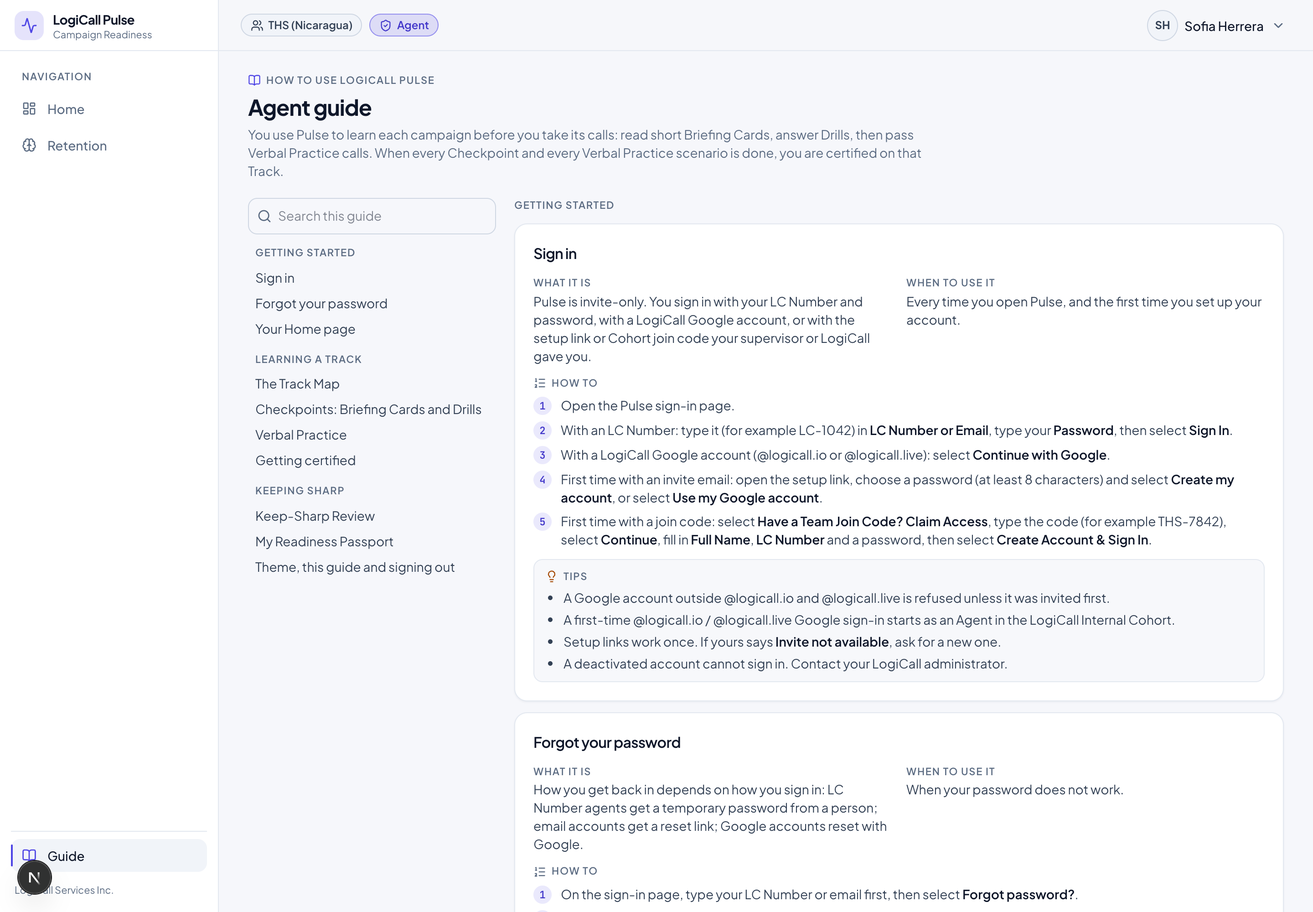
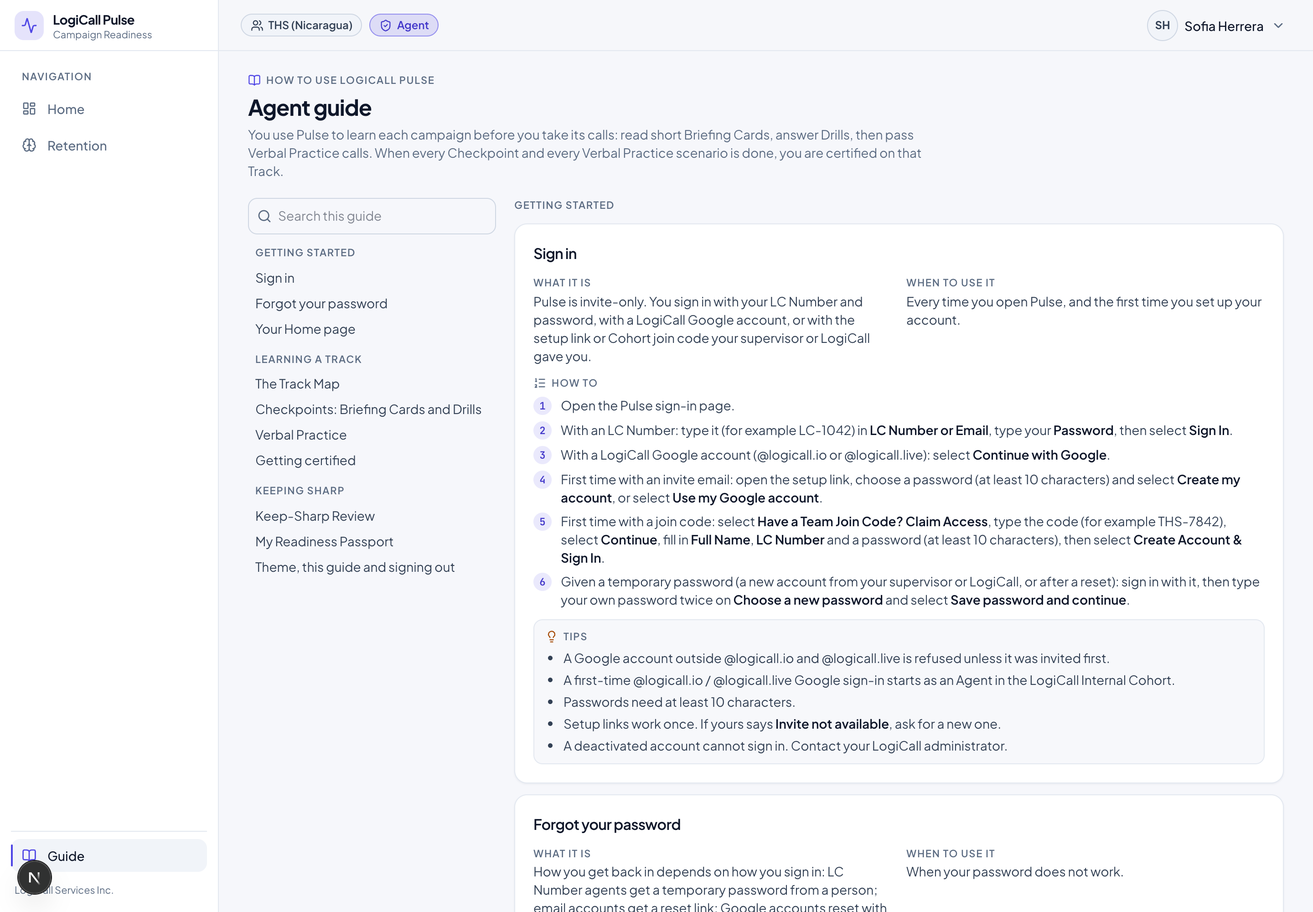
Guides: match PR #21 (10-char passwords, forced change after import, Revoke)
- Sign-in: passwords need 10 characters; temporary passwords (import or reset)
  lead to Choose a new password.
- Bulk Import: imported people must choose a new password at first sign-in.
- New Revoke a certification section (Trainer, Admin): Passport > Campaign
  Certifications > Revoke > Reason > Revoke certification; it does not come back
  by itself. Agents and supervisors are told how Revoked shows for them.
- Keep-Sharp: reviews do not count toward certification.
- Test: Revoke labels must exist in the UI; every password minimum in the guides
  matches PASSWORD_MIN_LENGTH. Docs and screenshots regenerated.

Changed region(s): [[0.4062, 0.589, 0.9375, 1.0], [0.9062, 0.527, 0.9375, 0.558]]

diff --git a/src/lib/guides/staff-sections.ts b/src/lib/guides/staff-sections.ts
@@ -123,6 +123,7 @@ export const teamProgressSection = (audience: 'supervisor' | 'staff'): GuideSect
   tips: [
     '"Ready for calls" on this board means certified on the selected Track. On Home it means certified on every assigned Track.',
     'Ready = every Checkpoint done and every Verbal Practice scenario passed. Keep-Sharp reviews do not count toward it.',
+    'A revoked certification moves the agent to the **Needs recert** box with "Revoked:" and the reason.',
     'Certification shows training is done; the decision to put someone on live calls is still yours.',
     audience === 'supervisor'
       ? 'Agents are listed under their home Cohort only. Someone from another team who is "also in" your Cohort shows on their own team\'s board, not yours.'
@@ -168,9 +169,32 @@ export const passportSection = (audience: 'supervisor' | 'staff'): GuideSection 
     audience === 'supervisor'
       ? 'You can open Passports for agents in your own Cohort.'
       : 'Staff can open any agent\'s Passport.',
+    audience === 'supervisor'
+      ? 'A certification a Trainer withdrew shows as **Revoked**. Ask your Trainer about the reason and what happens next.'
+      : 'To withdraw a certification, use **Revoke** in **Campaign Certifications** (see "Revoke a certification").',
   ],
   requires: ['analytics.view'],
 });
+
+export const revokeCertificationSection: GuideSection = {
+  id: 'revoke-certification',
+  title: 'Revoke a certification',
+  what: 'Withdraws an agent\'s certification on one Track. They stop counting as certified or ready for calls on it; their training history stays, and your reason and name are recorded in the certification history.',
+  when: 'When an agent is certified but should not be: for example a compliance violation on a real call, or a policy change that their certification predates.',
+  steps: [
+    'Open the agent\'s Readiness Passport (select their name on **Team Progress** or **Analytics**).',
+    'In **Campaign Certifications**, find the Track and select **Revoke**.',
+    'Type the **Reason**. It is required and kept in the certification history.',
+    'Select **Revoke certification**.',
+  ],
+  tips: [
+    'A revoked certification does not come back by itself, even if the agent meets every requirement again. There is no reinstate button yet.',
+    'The agent sees **Revoked** and your reason on the Track Map. Supervisors see "Revoked:" and the reason on Team Progress.',
+    'Their Track goes back to in progress, so their Home card shows **Continue** instead of **Certified**.',
+  ],
+  links: [{ label: 'Open Team Progress', href: '/progress' }],
+  requires: ['certifications.manage'],
+};
 
 export const manualScoringSection: GuideSection = {
   id: 'score-by-hand',
@@ -254,7 +278,7 @@ export const bulkImportSection: GuideSection = {
     'Pulse does not keep a copy of the temporary passwords. If you lose the file, reset the passwords one by one.',
     'Blank role = Agent. Blank divisionIds = the Cohort\'s default Divisions. Separate several Divisions with |.',
     'Up to 500 rows per import. Excel files must be saved as CSV first.',
-    'Imported accounts are not forced to change their password. Ask agents to keep it private.',
+    'Everyone imported must choose their own password (at least 10 characters) the first time they sign in, the same as after a reset. An initialPassword you set must also be at least 10 characters.',
   ],
   links: [{ label: 'Open Roster', href: '/roster' }],
   requires: ['users.invite'],

diff --git a/src/lib/guides/shared.ts b/src/lib/guides/shared.ts
@@ -17,19 +17,22 @@ export const signInSection = (audience: 'agent' | 'staff'): GuideSection => ({
           'Open the Pulse sign-in page.',
           'With an LC Number: type it (for example LC-1042) in **LC Number or Email**, type your **Password**, then select **Sign In**.',
           'With a LogiCall Google account (@logicall.io or @logicall.live): select **Continue with Google**.',
-          'First time with an invite email: open the setup link, choose a password (at least 8 characters) and select **Create my account**, or select **Use my Google account**.',
-          'First time with a join code: select **Have a Team Join Code? Claim Access**, type the code (for example THS-7842), select **Continue**, fill in **Full Name**, **LC Number** and a password, then select **Create Account & Sign In**.',
+          'First time with an invite email: open the setup link, choose a password (at least 10 characters) and select **Create my account**, or select **Use my Google account**.',
+          'First time with a join code: select **Have a Team Join Code? Claim Access**, type the code (for example THS-7842), select **Continue**, fill in **Full Name**, **LC Number** and a password (at least 10 characters), then select **Create Account & Sign In**.',
+          'Given a temporary password (a new account from your supervisor or LogiCall, or after a reset): sign in with it, then type your own password twice on **Choose a new password** and select **Save password and continue**.',
         ]
       : [
           'LogiCall staff: select **Continue with Google** and pick your @logicall.io or @logicall.live account.',
-          'Invited by email: open the one-time setup link from the invite email, choose a password (at least 8 characters) and select **Create my account**, or select **Use my Google account** for that same address.',
+          'Invited by email: open the one-time setup link from the invite email, choose a password (at least 10 characters) and select **Create my account**, or select **Use my Google account** for that same address.',
           'Accounts with a password: type your LC Number or email in **LC Number or Email**, your **Password**, then select **Sign In**.',
+          'Signed in with a temporary password (from Bulk Import or a reset)? Pulse opens **Choose a new password** first. Pick one with at least 10 characters.',
         ],
   tips: [
     'A Google account outside @logicall.io and @logicall.live is refused unless it was invited first.',
     audience === 'agent'
       ? 'A first-time @logicall.io / @logicall.live Google sign-in starts as an Agent in the LogiCall Internal Cohort.'
       : 'A first-time @logicall.io / @logicall.live Google sign-in with no invite starts as an Agent in the LogiCall Internal Cohort. To make them staff, change their role with **Access** on the Roster, or invite them before they sign in.',
+    'Passwords need at least 10 characters.',
     'Setup links work once. If yours says **Invite not available**, ask for a new one.',
     'A deactivated account cannot sign in. Contact your LogiCall administrator.',
   ],

diff --git a/tests/unit/role-guides.test.ts b/tests/unit/role-guides.test.ts
@@ -4,6 +4,7 @@ import { createElement } from 'react';
 import { renderToStaticMarkup } from 'react-dom/server';
 import { describe, expect, it } from 'vitest';
 import { ALL_ROLES, can } from '@/lib/auth/rbac';
+import { PASSWORD_MIN_LENGTH } from '@/lib/schemas/constants';
 import type { UserRole } from '@/lib/schemas/domain';
 import { GUIDES } from '@/lib/guides';
 import { guideRoleFor, resolveGuideRole, visibleGuideRoles } from '@/lib/guides/access';
@@ -166,21 +167,29 @@ describe('role guides', () => {
     }
   });
 
-  it('teaches multi-Cohort assignment with the labels the app really shows', () => {
+  it('teaches multi-Cohort assignment and revoking with the labels the app really shows', () => {
     const read = (rel: string) => readFileSync(path.join(ROOT, 'src', rel), 'utf8');
     const ui = {
       'Also in these Cohorts': read('app/(dashboard)/roster/_components/EditUserPermissionsDialog.tsx'),
       'Save trainings': read('app/(dashboard)/roster/_components/CohortTrainingsDialog.tsx'),
       'Specific people': read('components/studio/PublishDialog.tsx'),
       'Save assignment only': read('components/studio/PublishDialog.tsx'),
+      Revoke: read('components/analytics/RevokeCertificationButton.tsx'),
+      'Revoke certification': read('components/analytics/RevokeCertificationButton.tsx'),
     };
     for (const role of ['TRAINER', 'ADMIN'] as const) {
       const text = guideToMarkdown(GUIDES[role]);
       expect(text).toContain('### Assign trainings to Cohorts or people');
+      expect(text).toContain('### Revoke a certification');
       for (const [label, source] of Object.entries(ui)) {
         expect(source, `UI still shows "${label}"`).toContain(label);
         expect(text, `${role} guide mentions "${label}"`).toContain(`**${label}**`);
       }
+    }
+    // Password minimum matches the app everywhere a guide mentions one.
+    for (const role of GUIDE_ROLES) {
+      const text = guideToMarkdown(GUIDES[role]);
+      for (const match of text.matchAll(/at least (\d+) characters/g)) expect(Number(match[1])).toBe(PASSWORD_MIN_LENGTH);
     }
     // Every guide states the any-Cohort-or-by-name rule; no section is left flagged for a later update.
     expect(guideToMarkdown(GUIDES.AGENT)).toContain('one of your Cohorts or to you by name');

diff --git a/src/lib/guides/agent.ts b/src/lib/guides/agent.ts
@@ -107,6 +107,7 @@ export const AGENT_GUIDE: RoleGuide = {
           tips: [
             'Keep-Sharp reviews keep rules fresh but do not affect certification.',
             '**Recertify** means the Track changed in a way that needs a new pass. Your old certification stays in your history.',
+            '**Revoked** means a Trainer withdrew your certification on that Track. The reason shows in **Path to certification**. It does not come back by itself, even if you redo the Track, so talk to your supervisor.',
             'Certification shows training is done. Your supervisor decides when you take live calls.',
           ],
         },
@@ -130,6 +131,7 @@ export const AGENT_GUIDE: RoleGuide = {
             'Nothing due? **Practice Upcoming Drills** lets you review early.',
             'A wrong answer comes back in about 4 hours.',
             'No reviews yet means you have not finished a Checkpoint. Reviews start after your first one.',
+            'Reviews keep rules fresh. They do not count toward certification, and skipping them never removes it.',
           ],
           links: [{ label: 'Open Keep-Sharp Review', href: '/learn/review' }],
         },

diff --git a/src/lib/guides/trainer.ts b/src/lib/guides/trainer.ts
@@ -10,6 +10,7 @@ import {
   editTrackSection,
   inviteSection,
   manualScoringSection,
+  revokeCertificationSection,
   passportSection,
   resetPasswordSection,
   revisedPlaybookSection,
@@ -37,7 +38,13 @@ export const BUILDING_CHAPTER: GuideChapter = {
 export const TEAM_CHAPTER: GuideChapter = {
   id: 'team-insight',
   title: 'Progress and coaching',
-  sections: [teamProgressSection('staff'), manualScoringSection, analyticsSection('staff'), passportSection('staff')],
+  sections: [
+    teamProgressSection('staff'),
+    manualScoringSection,
+    analyticsSection('staff'),
+    passportSection('staff'),
+    revokeCertificationSection,
+  ],
 };
 
 /** Pointers to the guides of the roles a staff member manages. */

diff --git a/docs/guides/admin-guide.md b/docs/guides/admin-guide.md
@@ -34,6 +34,7 @@ You can do everything a Trainer does, and you also run Cohorts, join codes and T
   - [Score a practice call by hand](#score-by-hand)
   - [Analytics](#analytics)
   - [An agent's Readiness Passport](#readiness-passport)
+  - [Revoke a certification](#revoke-certification)
 - More
   - [What Trainers see](#trainer-experience)
   - [What supervisors see](#supervisor-experience)
@@ -54,13 +55,15 @@ You can do everything a Trainer does, and you also run Cohorts, join codes and T
 **How to:**
 
 1. LogiCall staff: select **Continue with Google** and pick your @logicall.io or @logicall.live account.
-2. Invited by email: open the one-time setup link from the invite email, choose a password (at least 8 characters) and select **Create my account**, or select **Use my Google account** for that same address.
+2. Invited by email: open the one-time setup link from the invite email, choose a password (at least 10 characters) and select **Create my account**, or select **Use my Google account** for that same address.
 3. Accounts with a password: type your LC Number or email in **LC Number or Email**, your **Password**, then select **Sign In**.
+4. Signed in with a temporary password (from Bulk Import or a reset)? Pulse opens **Choose a new password** first. Pick one with at least 10 characters.
 
 **Tips:**
 
 - A Google account outside @logicall.io and @logicall.live is refused unless it was invited first.
 - A first-time @logicall.io / @logicall.live Google sign-in with no invite starts as an Agent in the LogiCall Internal Cohort. To make them staff, change their role with **Access** on the Roster, or invite them before they sign in.
+- Passwords need at least 10 characters.
 - Setup links work once. If yours says **Invite not available**, ask for a new one.
 - A deactivated account cannot sign in. Contact your LogiCall administrator.
 
@@ -217,7 +220,7 @@ You can do everything a Trainer does, and you also run Cohorts, join codes and T
 - Pulse does not keep a copy of the temporary passwords. If you lose the file, reset the passwords one by one.
 - Blank role = Agent. Blank divisionIds = the Cohort's default Divisions. Separate several Divisions with |.
 - Up to 500 rows per import. Excel files must be saved as CSV first.
-- Imported accounts are not forced to change their password. Ask agents to keep it private.
+- Everyone imported must choose their own password (at least 10 characters) the first time they sign in, the same as after a reset. An initialPassword you set must also be at least 10 characters.
 
 **Open in Pulse:** **Open Roster** (`/roster`)
 
@@ -512,6 +515,7 @@ You can do everything a Trainer does, and you also run Cohorts, join codes and T
 
 - "Ready for calls" on this board means certified on the selected Track. On Home it means certified on every assigned Track.
 - Ready = every Checkpoint done and every Verbal Practice scenario passed. Keep-Sharp reviews do not count toward it.
+- A revoked certification moves the agent to the **Needs recert** box with "Revoked:" and the reason.
 - Certification shows training is done; the decision to put someone on live calls is still yours.
 - Agents are grouped by their home Cohort. The **Cohort** filter shows each agent under their home Cohort only, even if they are also in other Cohorts.
 
@@ -575,6 +579,30 @@ You can do everything a Trainer does, and you also run Cohorts, join codes and T
 **Tips:**
 
 - Staff can open any agent's Passport.
+- To withdraw a certification, use **Revoke** in **Campaign Certifications** (see "Revoke a certification").
+
+<a id="revoke-certification"></a>
+
+### Revoke a certification
+
+**What it is.** Withdraws an agent's certification on one Track. They stop counting as certified or ready for calls on it; their training history stays, and your reason and name are recorded in the certification history.
+
+**When to use it.** When an agent is certified but should not be: for example a compliance violation on a real call, or a policy change that their certification predates.
+
+**How to:**
+
+1. Open the agent's Readiness Passport (select their name on **Team Progress** or **Analytics**).
+2. In **Campaign Certifications**, find the Track and select **Revoke**.
+3. Type the **Reason**. It is required and kept in the certification history.
+4. Select **Revoke certification**.
+
+**Tips:**
+
+- A revoked certification does not come back by itself, even if the agent meets every requirement again. There is no reinstate button yet.
+- The agent sees **Revoked** and your reason on the Track Map. Supervisors see "Revoked:" and the reason on Team Progress.
+- Their Track goes back to in progress, so their Home card shows **Continue** instead of **Certified**.
+
+**Open in Pulse:** **Open Team Progress** (`/progress`)
 
 ## More
 

diff --git a/docs/guides/trainer-guide.md b/docs/guides/trainer-guide.md
@@ -23,6 +23,7 @@ You use Pulse to turn campaign Playbook PDFs into Tracks, publish them to Cohort
   - [Score a practice call by hand](#score-by-hand)
   - [Analytics](#analytics)
   - [An agent's Readiness Passport](#readiness-passport)
+  - [Revoke a certification](#revoke-certification)
 - People
   - [The Roster](#roster)
   - [Invite someone by email](#invite-staff)
@@ -51,13 +52,15 @@ You use Pulse to turn campaign Playbook PDFs into Tracks, publish them to Cohort
 **How to:**
 
 1. LogiCall staff: select **Continue with Google** and pick your @logicall.io or @logicall.live account.
-2. Invited by email: open the one-time setup link from the invite email, choose a password (at least 8 characters) and select **Create my account**, or select **Use my Google account** for that same address.
+2. Invited by email: open the one-time setup link from the invite email, choose a password (at least 10 characters) and select **Create my account**, or select **Use my Google account** for that same address.
 3. Accounts with a password: type your LC Number or email in **LC Number or Email**, your **Password**, then select **Sign In**.
+4. Signed in with a temporary password (from Bulk Import or a reset)? Pulse opens **Choose a new password** first. Pick one with at least 10 characters.
 
 **Tips:**
 
 - A Google account outside @logicall.io and @logicall.live is refused unless it was invited first.
 - A first-time @logicall.io / @logicall.live Google sign-in with no invite starts as an Agent in the LogiCall Internal Cohort. To make them staff, change their role with **Access** on the Roster, or invite them before they sign in.
+- Passwords need at least 10 characters.
 - Setup links work once. If yours says **Invite not available**, ask for a new one.
 - A deactivated account cannot sign in. Contact your LogiCall administrator.
 
@@ -280,6 +283,7 @@ You use Pulse to turn campaign Playbook PDFs into Tracks, publish them to Cohort
 
 - "Ready for calls" on this board means certified on the selected Track. On Home it means certified on every assigned Track.
 - Ready = every Checkpoint done and every Verbal Practice scenario passed. Keep-Sharp reviews do not count toward it.
+- A revoked certification moves the agent to the **Needs recert** box with "Revoked:" and the reason.
 - Certification shows training is done; the decision to put someone on live calls is still yours.
 - Agents are grouped by their home Cohort. The **Cohort** filter shows each agent under their home Cohort only, even if they are also in other Cohorts.
 
@@ -343,6 +347,30 @@ You use Pulse to turn campaign Playbook PDFs into Tracks, publish them to Cohort
 **Tips:**
 
 - Staff can open any agent's Passport.
+- To withdraw a certification, use **Revoke** in **Campaign Certifications** (see "Revoke a certification").
+
+<a id="revoke-certification"></a>
+
+### Revoke a certification
+
+**What it is.** Withdraws an agent's certification on one Track. They stop counting as certified or ready for calls on it; their training history stays, and your reason and name are recorded in the certification history.
+
+**When to use it.** When an agent is certified but should not be: for example a compliance violation on a real call, or a policy change that their certification predates.
+
+**How to:**
+
+1. Open the agent's Readiness Passport (select their name on **Team Progress** or **Analytics**).
+2. In **Campaign Certifications**, find the Track and select **Revoke**.
+3. Type the **Reason**. It is required and kept in the certification history.
+4. Select **Revoke certification**.
+
+**Tips:**
+
+- A revoked certification does not come back by itself, even if the agent meets every requirement again. There is no reinstate button yet.
+- The agent sees **Revoked** and your reason on the Track Map. Supervisors see "Revoked:" and the reason on Team Progress.
+- Their Track goes back to in progress, so their Home card shows **Continue** instead of **Certified**.
+
+**Open in Pulse:** **Open Team Progress** (`/progress`)
 
 ## People
 
@@ -415,7 +443,7 @@ You use Pulse to turn campaign Playbook PDFs into Tracks, publish them to Cohort
 - Pulse does not keep a copy of the temporary passwords. If you lose the file, reset the passwords one by one.
 - Blank role = Agent. Blank divisionIds = the Cohort's default Divisions. Separate several Divisions with |.
 - Up to 500 rows per import. Excel files must be saved as CSV first.
-- Imported accounts are not forced to change their password. Ask agents to keep it private.
+- Everyone imported must choose their own password (at least 10 characters) the first time they sign in, the same as after a reset. An initialPassword you set must also be at least 10 characters.
 
 **Open in Pulse:** **Open Roster** (`/roster`)
 

diff --git a/docs/guides/agent-guide.md b/docs/guides/agent-guide.md
@@ -35,13 +35,15 @@ You use Pulse to learn each campaign before you take its calls: read short Brief
 1. Open the Pulse sign-in page.
 2. With an LC Number: type it (for example LC-1042) in **LC Number or Email**, type your **Password**, then select **Sign In**.
 3. With a LogiCall Google account (@logicall.io or @logicall.live): select **Continue with Google**.
-4. First time with an invite email: open the setup link, choose a password (at least 8 characters) and select **Create my account**, or select **Use my Google account**.
-5. First time with a join code: select **Have a Team Join Code? Claim Access**, type the code (for example THS-7842), select **Continue**, fill in **Full Name**, **LC Number** and a password, then select **Create Account & Sign In**.
+4. First time with an invite email: open the setup link, choose a password (at least 10 characters) and select **Create my account**, or select **Use my Google account**.
+5. First time with a join code: select **Have a Team Join Code? Claim Access**, type the code (for example THS-7842), select **Continue**, fill in **Full Name**, **LC Number** and a password (at least 10 characters), then select **Create Account & Sign In**.
+6. Given a temporary password (a new account from your supervisor or LogiCall, or after a reset): sign in with it, then type your own password twice on **Choose a new password** and select **Save password and continue**.
 
 **Tips:**
 
 - A Google account outside @logicall.io and @logicall.live is refused unless it was invited first.
 - A first-time @logicall.io / @logicall.live Google sign-in starts as an Agent in the LogiCall Internal Cohort.
+- Passwords need at least 10 characters.
 - Setup links work once. If yours says **Invite not available**, ask for a new one.
 - A deactivated account cannot sign in. Contact your LogiCall administrator.
 
@@ -176,6 +178,7 @@ You use Pulse to learn each campaign before you take its calls: read short Brief
 
 - Keep-Sharp reviews keep rules fresh but do not affect certification.
 - **Recertify** means the Track changed in a way that needs a new pass. Your old certification stays in your history.
+- **Revoked** means a Trainer withdrew your certification on that Track. The reason shows in **Path to certification**. It does not come back by itself, even if you redo the Track, so talk to your supervisor.
 - Certification shows training is done. Your supervisor decides when you take live calls.
 
 ## Keeping sharp
@@ -199,6 +202,7 @@ You use Pulse to learn each campaign before you take its calls: read short Brief
 - Nothing due? **Practice Upcoming Drills** lets you review early.
 - A wrong answer comes back in about 4 hours.
 - No reviews yet means you have not finished a Checkpoint. Reviews start after your first one.
+- Reviews keep rules fresh. They do not count toward certification, and skipping them never removes it.
 
 **Open in Pulse:** **Open Keep-Sharp Review** (`/learn/review`)
 

diff --git a/docs/guides/supervisor-guide.md b/docs/guides/supervisor-guide.md
@@ -34,13 +34,15 @@ You use Pulse to see which agents in your Cohort are ready to take calls, coach 
 **How to:**
 
 1. LogiCall staff: select **Continue with Google** and pick your @logicall.io or @logicall.live account.
-2. Invited by email: open the one-time setup link from the invite email, choose a password (at least 8 characters) and select **Create my account**, or select **Use my Google account** for that same address.
+2. Invited by email: open the one-time setup link from the invite email, choose a password (at least 10 characters) and select **Create my account**, or select **Use my Google account** for that same address.
 3. Accounts with a password: type your LC Number or email in **LC Number or Email**, your **Password**, then select **Sign In**.
+4. Signed in with a temporary password (from Bulk Import or a reset)? Pulse opens **Choose a new password** first. Pick one with at least 10 characters.
 
 **Tips:**
 
 - A Google account outside @logicall.io and @logicall.live is refused unless it was invited first.
 - A first-time @logicall.io / @logicall.live Google sign-in with no invite starts as an Agent in the LogiCall Internal Cohort. To make them staff, change their role with **Access** on the Roster, or invite them before they sign in.
+- Passwords need at least 10 characters.
 - Setup links work once. If yours says **Invite not available**, ask for a new one.
 - A deactivated account cannot sign in. Contact your LogiCall administrator.
 
@@ -109,6 +111,7 @@ You use Pulse to see which agents in your Cohort are ready to take calls, coach 
 
 - "Ready for calls" on this board means certified on the selected Track. On Home it means certified on every assigned Track.
 - Ready = every Checkpoint done and every Verbal Practice scenario passed. Keep-Sharp reviews do not count toward it.
+- A revoked certification moves the agent to the **Needs recert** box with "Revoked:" and the reason.
 - Certification shows training is done; the decision to put someone on live calls is still yours.
 - Agents are listed under their home Cohort only. Someone from another team who is "also in" your Cohort shows on their own team's board, not yours.
 
@@ -152,6 +155,7 @@ You use Pulse to see which agents in your Cohort are ready to take calls, coach 
 **Tips:**
 
 - You can open Passports for agents in your own Cohort.
+- A certification a Trainer withdrew shows as **Revoked**. Ask your Trainer about the reason and what happens next.
 
 <a id="reset-password"></a>
 
